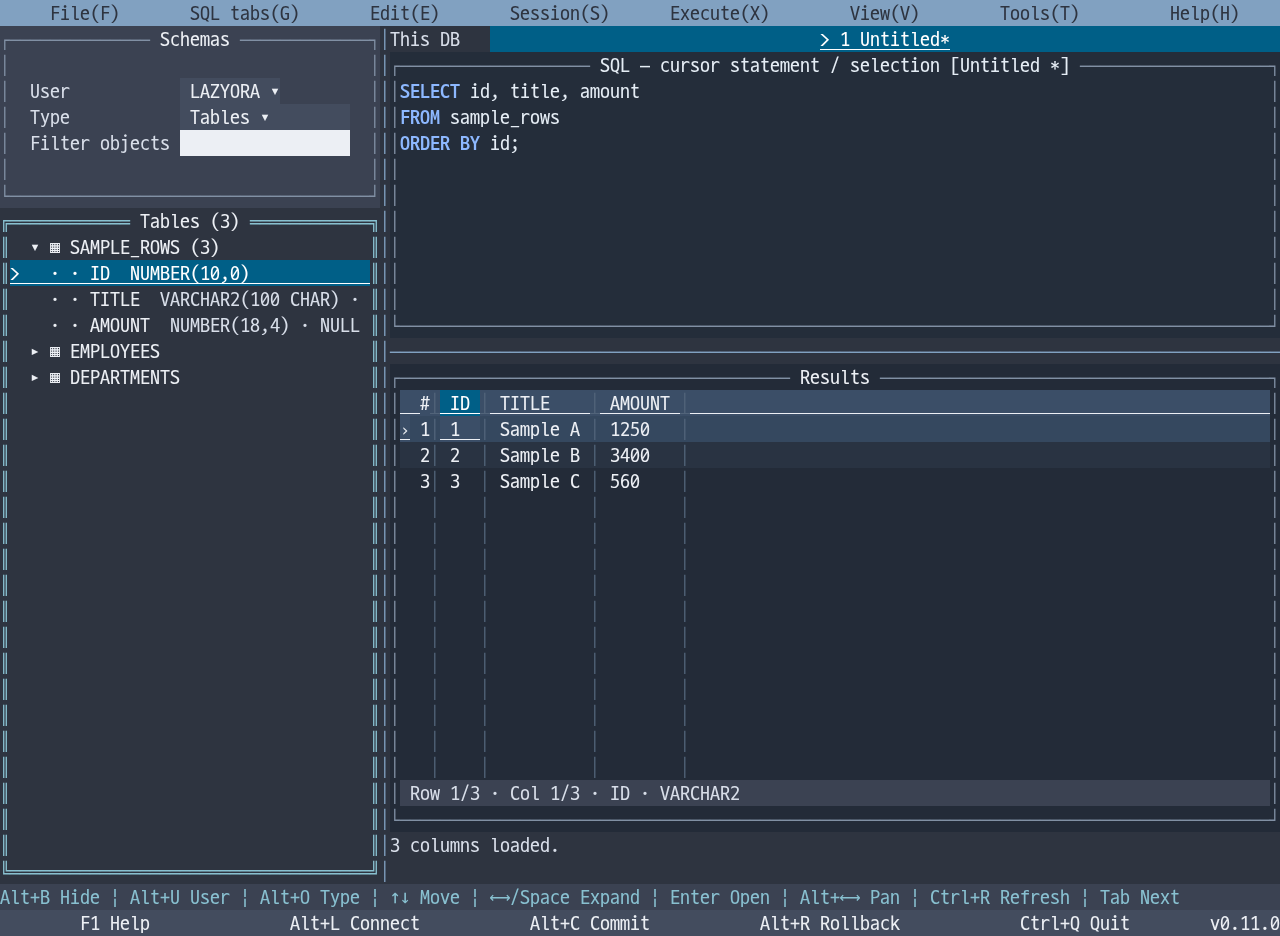
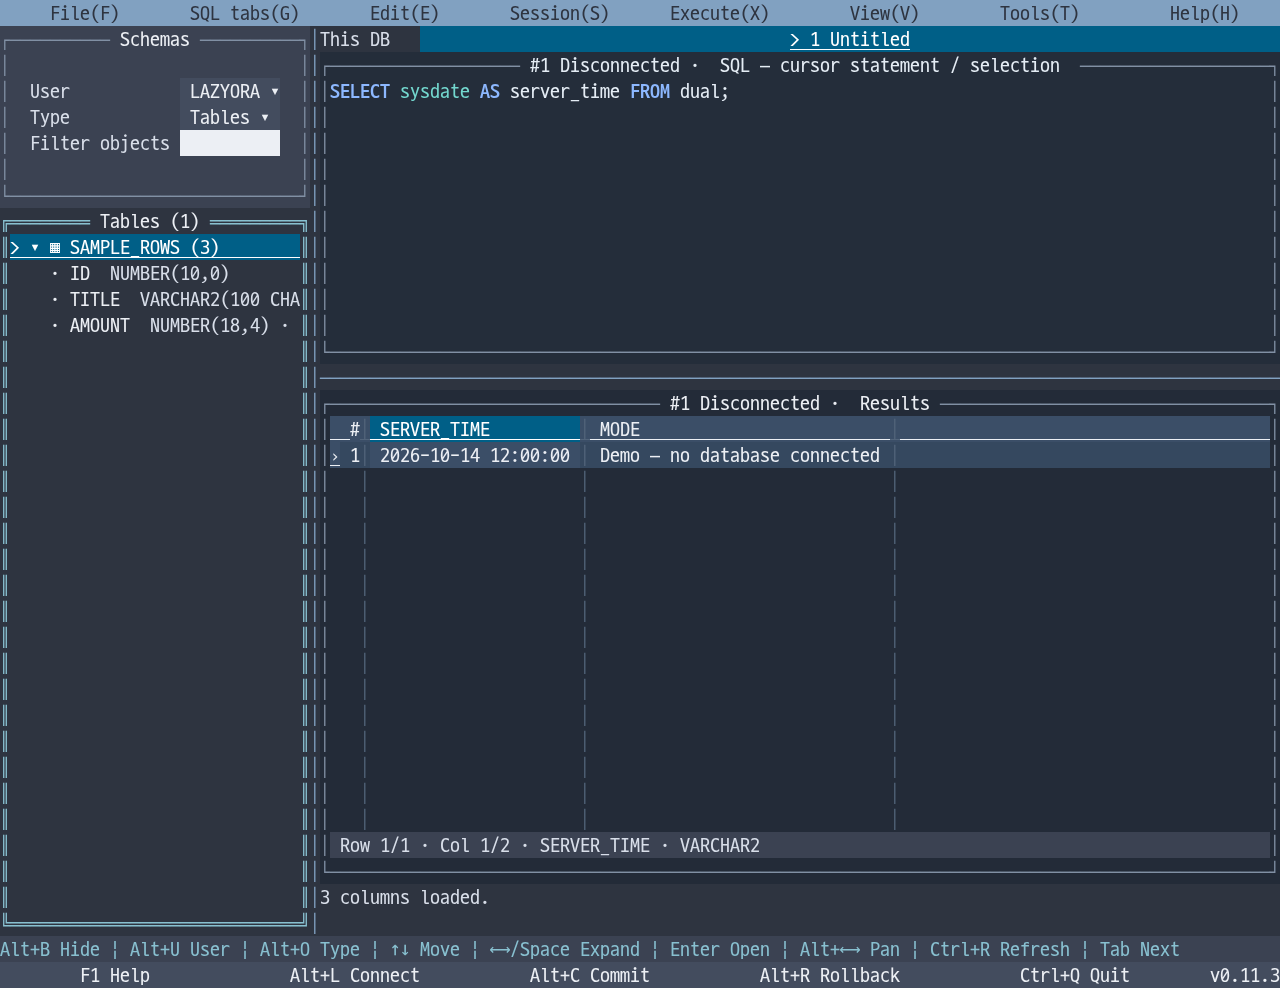
chore: LORA-76 v0.11.3 릴리스와 한영 화면 갱신

diff --git a/internal/appinfo/info.go b/internal/appinfo/info.go
@@ -4,7 +4,7 @@ package appinfo
 const (
 	ProjectURL = "https://github.com/leechis7/lazyora"
 	Name       = "LazyOra"
-	Version    = "0.11.2"
+	Version    = "0.11.3"
 	Developer  = "이채강 (Chaekang Lee)"
 	Email      = "leechis7@gmail.com"
 	License    = "AGPL-3.0-only"

diff --git a/docs/releases/v0.11.3.md b/docs/releases/v0.11.3.md
@@ -1,0 +1,30 @@
+[한국어](v0.11.3.md) | [English](../en/releases/v0.11.3.md)
+
+LazyOra v0.11.3은 스키마 트리 표시와 컴포넌트 책임 문서를 정리한 패치 릴리스입니다.
+
+### 변경
+
+- 컬럼 앞의 중복 아이콘을 제거합니다. Unicode는 `· · ID` → `· ID`, ASCII는 `. C ID` → `. ID`로 표시해 각 줄의 두 칸을 이름·자료형에 돌려줍니다.
+- 공개 Tuivory Go v0.2.0의 기본 말단 표시·들여쓰기·탐색·컬럼 식별·상세 열기는 유지합니다. 공통 렌더러를 수정하거나 복사하지 않았습니다.
+- Tuivory는 재사용 컴포넌트를 제공하고 LazyOra는 실제 화면 조합·배치·전역 단축키·기능 연결을 담당한다는 책임 경계를 한영 문서에 정리했습니다. 기존 화면 조합 코드를 전부 라이브러리로 옮기지 않습니다.
+- 한영 README 캡처를 현재 실행파일의 데모 화면으로 갱신했습니다. 그리드 옵션/프리셋(TVR-17)은 요청 상태이며 이번 릴리스의 구현 기능이 아닙니다.
+
+### 검증과 범위
+
+기존 트리 펼침/지연 응답/필터·캐시/테마·문자 폭/대량 탐색/부모 객체 동작 검사와 전체 Go race·정적 검사·Linux ARM64 빌드를 확인했습니다. 한영 데모는 DB 없는 실제 실행파일의 PTY 출력이며 실제 DB 결과가 아닙니다.
+
+GitHub CI·Release는 Linux/Windows/macOS AMD64/ARM64 빌드와 자동 검사를 수행합니다. 실제 원격 단말·폰트·CentOS·신규 실DB 접속 검증은 이번 범위와 구분합니다.
+
+### 다운로드
+
+OS·CPU에 맞는 실행파일 하나를 선택하고 `SHA256SUMS`를 확인하세요. Linux/macOS에서는 실행 권한을 부여합니다.
+
+- Linux: `lazyora-linux-amd64`, `lazyora-linux-arm64`
+- Windows: `lazyora-windows-amd64.exe`, `lazyora-windows-arm64.exe`
+- macOS: `lazyora-darwin-amd64`, `lazyora-darwin-arm64`
+
+### English summary
+
+LazyOra v0.11.3 removes duplicate schema-column icons, recovering two cells per line while retaining Tuivory Go v0.2.0 rendering/navigation. Bilingual documents clarify component-library versus application-composition responsibilities, and README demo captures are refreshed. TVR-17 grid options/presets remain a request, not an implemented feature. See the [English release notes](https://github.com/leechis7/lazyora/blob/v0.11.3/docs/en/releases/v0.11.3.md).
+
+[전체 변경 이력](https://github.com/leechis7/lazyora/blob/v0.11.3/CHANGELOG.md)

diff --git a/docs/tuivory-sync.md b/docs/tuivory-sync.md
@@ -10,9 +10,9 @@ Tuivory는 TUI 컴포넌트 라이브러리입니다. 재사용 가능한 컨트
 
 TVR-7 본문과 과도한 이전 요청 댓글을 한영으로 정정했습니다. [TVR-17](https://leechis7.atlassian.net/browse/TVR-17)의 단일 간결 그리드 옵션/프리셋 요청과 비교 이미지 2장은 유지합니다. 공통 컨트롤의 중복만 줄이며 앱 화면 조합까지 패키지에 맡기지 않습니다. 검토 기록 변경이며 코드·정식 배포 자산을 추가 변경하지 않았습니다.
 
-## LORA-76: 컬럼 말단 중복 아이콘 생략 (2026-10-29, 개발 중)
+## LORA-76: 컬럼 말단 중복 아이콘 생략 (2026-10-29, v0.11.3)
 
-공개 Tuivory Go v0.2.0 / go/v0.2.0 / 987d1a6786033a6bf063235b5e7fea7b565f0af0을 유지합니다. TreeView의 기본 말단 표식(Unicode · / ASCII .)에 LazyOra의 컬럼 아이콘(· / C)이 중복됐으므로 공개 TreeNode.Icon/ASCIIIcon을 빈 값으로 둡니다. 각 컬럼 줄에서 두 칸을 줄이고 기본 말단 표시·들여쓰기·식별·선택·상세 열기를 보존합니다. 공통 렌더러를 복사하거나 수정하지 않습니다. 기본 표식 자체의 선택 옵션이 필요하면 Tuivory 쪽에서 제공한 뒤 소비합니다. 정식 v0.11.2 자산은 변경하지 않습니다.
+공개 Tuivory Go v0.2.0 / go/v0.2.0 / 987d1a6786033a6bf063235b5e7fea7b565f0af0을 유지합니다. TreeView의 기본 말단 표식(Unicode · / ASCII .)에 LazyOra의 컬럼 아이콘(· / C)이 중복됐으므로 공개 TreeNode.Icon/ASCIIIcon을 빈 값으로 둡니다. 각 컬럼 줄에서 두 칸을 줄이고 기본 말단 표시·들여쓰기·식별·선택·상세 열기를 보존합니다. 공통 렌더러를 복사하거나 수정하지 않습니다. 기본 표식 자체의 선택 옵션이 필요하면 Tuivory 쪽에서 제공한 뒤 소비합니다. 이 표시 개선은 v0.11.3에 포함하며 기존 v0.11.2 자산은 변경하지 않습니다.
 
 ## LORA-76: Tuivory v0.2.0 공통 UI 우선 적용 (2026-10-29, v0.11.2)
 

diff --git a/CHANGELOG.md b/CHANGELOG.md
@@ -4,10 +4,17 @@
 
 ## [Unreleased]
 
+## [0.11.3] - 2026-10-29
+
 ### 개선 / Changed
 
 - LORA-76: 스키마 트리의 컬럼 아이콘을 생략해 중복 말단 표식(· · / . C)을 하나로 줄이고 이름·자료형 공간을 두 칸 확보합니다.
 - LORA-76: Omit redundant schema-column icons, keeping one leaf marker instead of · · / . C and recovering two cells for names/types.
+
+### 문서 / Documentation
+
+- LORA-76: Tuivory의 재사용 컴포넌트와 LazyOra의 화면 조합·배치·기능 연결 책임을 구분하고 한영 규칙·적용 기록을 정정합니다. 단일 공통 그리드의 옵션/프리셋 요청(TVR-17)은 유지합니다.
+- LORA-76: Clarify reusable Tuivory controls versus LazyOra screen composition/layout/action binding in bilingual policies and integration records. Retain TVR-17's options/presets request on one shared grid.
 
 ## [0.11.2] - 2026-10-29
 
@@ -316,7 +323,8 @@ v0.0.1의 F2 접속은 Alt+L, F4 실행은 F9, F5 커밋은 Alt+C, F6 롤백은 
 - 이 릴리스 시점에는 실제 CentOS 7.4, 구형 Oracle 및 SID 접속 검증이 완료되지 않았습니다. 이후 호환성 수정은 `Unreleased`에 기록합니다.
 - 한 번에 SQL 한 문장 또는 BEGIN/DECLARE 블록 하나를 실행합니다. 여러 문장 일괄 실행, SQL*Plus 스크립트, 바인드 입력, DBMS_OUTPUT 출력은 지원하지 않습니다.
 
-[Unreleased]: https://github.com/leechis7/lazyora/compare/v0.11.2...dev
+[Unreleased]: https://github.com/leechis7/lazyora/compare/v0.11.3...dev
+[0.11.3]: https://github.com/leechis7/lazyora/compare/v0.11.2...v0.11.3
 [0.11.2]: https://github.com/leechis7/lazyora/compare/v0.11.1...v0.11.2
 [0.11.1]: https://github.com/leechis7/lazyora/compare/v0.11.0...v0.11.1
 [0.11.0]: https://github.com/leechis7/lazyora/compare/v0.10.2...v0.11.0

diff --git a/docs/en/tuivory-sync.md b/docs/en/tuivory-sync.md
@@ -8,9 +8,9 @@ Tuivory is a TUI component library. Prefer public APIs for reusable control rend
 
 Corrected the TVR-7 description and overly broad request comment in Korean/English. Keep [TVR-17](https://leechis7.atlassian.net/browse/TVR-17), its single simple grid with options/presets and both comparison images. Avoid duplicated shared controls without delegating whole application screens. This changes review records, not application code or published assets.
 
-## LORA-76: omit duplicate column-leaf icons (2026-10-29, development)
+## LORA-76: omit duplicate column-leaf icons (2026-10-29, v0.11.3)
 
-Retain public Tuivory Go v0.2.0 / go/v0.2.0 / 987d1a6786033a6bf063235b5e7fea7b565f0af0. TreeView already supplies a leaf marker (Unicode · / ASCII .); leave public TreeNode.Icon/ASCIIIcon empty instead of adding LazyOra's · / C column icon. Recover two cells per column while preserving the default marker, indentation, identity, selection and details actions. Do not copy or change the renderer. Any future option to hide the built-in marker belongs to Tuivory before consumption. Published v0.11.2 assets remain unchanged.
+Retain public Tuivory Go v0.2.0 / go/v0.2.0 / 987d1a6786033a6bf063235b5e7fea7b565f0af0. TreeView already supplies a leaf marker (Unicode · / ASCII .); leave public TreeNode.Icon/ASCIIIcon empty instead of adding LazyOra's · / C column icon. Recover two cells per column while preserving the default marker, indentation, identity, selection and details actions. Do not copy or change the renderer. Any future option to hide the built-in marker belongs to Tuivory before consumption. This display improvement ships in v0.11.3; existing v0.11.2 assets remain unchanged.
 
 ## LORA-76: shared UI via Tuivory v0.2.0 (2026-10-29, v0.11.2)
 

diff --git a/docs/en/releases/v0.11.3.md b/docs/en/releases/v0.11.3.md
@@ -1,0 +1,26 @@
+[한국어](../../releases/v0.11.3.md) | **English**
+
+LazyOra v0.11.3 refines schema-tree display and component-ownership documentation.
+
+### Changes
+
+- Remove duplicate column icons: Unicode `· · ID` → `· ID`, ASCII `. C ID` → `. ID`. Recover two cells per line for names/types.
+- Retain public Tuivory Go v0.2.0 leaf markers, indentation, navigation, identity and details actions. No shared-renderer edits or source copying.
+- Clarify that Tuivory provides reusable components while LazyOra owns actual screen composition/layout, global shortcuts and action binding. Do not transfer all application-composition code to the library.
+- Refresh Korean/English README images from the executable demo. TVR-17 grid options/presets remain a request, not a feature implemented in this release.
+
+### Verification and scope
+
+Check existing tree expansion/stale response/filter/cache/theme/width/large-list/parent-action regressions, full Go race tests, static checks and local Linux ARM64 builds. Bilingual demo images capture actual database-free executable PTY output, not live Oracle results.
+
+GitHub CI/Release runs supported Linux/Windows/macOS AMD64/ARM64 builds and automated checks. Fresh remote-terminal/font/CentOS/live-Oracle verification is separate.
+
+### Downloads
+
+Choose one executable for your OS/CPU and verify `SHA256SUMS`. Make Linux/macOS files executable.
+
+- Linux: `lazyora-linux-amd64`, `lazyora-linux-arm64`
+- Windows: `lazyora-windows-amd64.exe`, `lazyora-windows-arm64.exe`
+- macOS: `lazyora-darwin-amd64`, `lazyora-darwin-arm64`
+
+[Full changelog](https://github.com/leechis7/lazyora/blob/v0.11.3/CHANGELOG.md)

diff --git a/README.en.md b/README.en.md
@@ -6,9 +6,9 @@
 
 LazyOra aims to make everyday Oracle development and inspection practical in a terminal, including over SSH, without installing Toad or purchasing its commercial license. It adapts familiar Toad workflows and shortcuts to a TUI. It is an independent project under active development, not a complete replacement for every Toad feature.
 
-Current version: **0.11.2** · **Linux / Windows / macOS · AMD64 / ARM64**
+Current version: **0.11.3** · **Linux / Windows / macOS · AMD64 / ARM64**
 
-v0.11.2 delegates shared popup/label handling to public Tuivory v0.2.0 APIs while preserving ASCII compatibility. See the [release notes](docs/en/releases/v0.11.2.md).
+v0.11.3 removes redundant schema-column icons to recover space for names and data types. See the [release notes](docs/en/releases/v0.11.3.md).
 
 - Oracle SQL/PL/SQL syntax highlighting, files and multiple SQL tabs, cursor-statement execution, F5 scripts and IN bind variables.
 - Estimated execution plans, result copying, CSV/TSV/Excel/INSERT export, and manual commit/rollback.
@@ -18,7 +18,7 @@ v0.11.2 delegates shared popup/label handling to public Tuivory v0.2.0 APIs whil
 
 ![LazyOra: menus, schema browser, SQL editor, result grid and context-sensitive shortcuts](docs/images/lazyora-overview.png)
 
-*v0.11.0 · Dark theme · English UI · DB-free demo widgets rendered in a simulated terminal.*
+*v0.11.3 · Dark theme · English UI · DB-free executable --demo output captured through a PTY.*
 
 ## Quick start
 

diff --git a/docs/en/index.md b/docs/en/index.md
@@ -22,6 +22,7 @@ Use the guides below for current behavior. The app-version source is `internal/a
 | Contributions | [Contributing](contributing.md) | [기여](../../CONTRIBUTING.md) |
 | Support and private security reports | [Support/security](support.md) | [지원](../../SUPPORT.md) · [보안](../../SECURITY.md) |
 | Community rules | [Code of conduct](../../CODE_OF_CONDUCT.en.md) | [행동 규칙](../../CODE_OF_CONDUCT.md) |
+| v0.11.3 release description | [English](releases/v0.11.3.md) | [한국어](../releases/v0.11.3.md) |
 | v0.11.2 release description | [English](releases/v0.11.2.md) | [한국어](../releases/v0.11.2.md) |
 | v0.11.1 release description | [English](releases/v0.11.1.md) | [한국어](../releases/v0.11.1.md) |
 | v0.11.0 release description | [English](releases/v0.11.0.md) | [한국어](../releases/v0.11.0.md) |

diff --git a/docs/index.md b/docs/index.md
@@ -22,6 +22,7 @@
 | 기여 방법 | [기여 안내](../CONTRIBUTING.md) | [Contributing](en/contributing.md) |
 | 문의·비공개 취약점 제보 | [지원](../SUPPORT.md) · [보안](../SECURITY.md) | [Support/security](en/support.md) |
 | 행동 규칙 | [한국어](../CODE_OF_CONDUCT.md) | [English](../CODE_OF_CONDUCT.en.md) |
+| v0.11.3 릴리스 설명 | [한국어](releases/v0.11.3.md) | [English](en/releases/v0.11.3.md) |
 | v0.11.2 릴리스 설명 | [한국어](releases/v0.11.2.md) | [English](en/releases/v0.11.2.md) |
 | v0.11.1 릴리스 설명 | [한국어](releases/v0.11.1.md) | [English](en/releases/v0.11.1.md) |
 | v0.11.0 릴리스 설명 | [한국어](releases/v0.11.0.md) | [English](en/releases/v0.11.0.md) |
